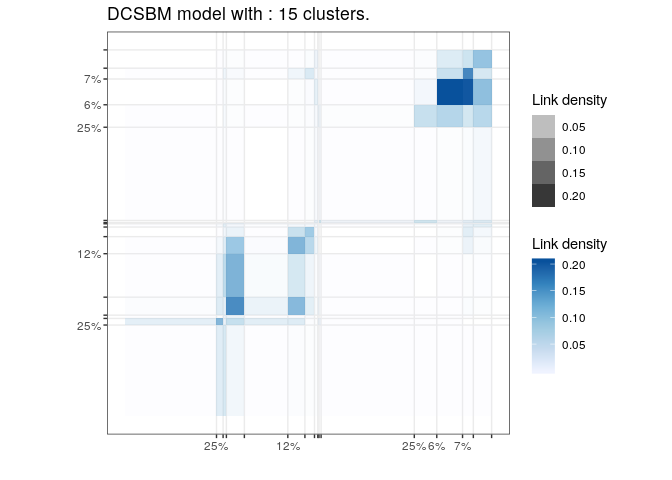
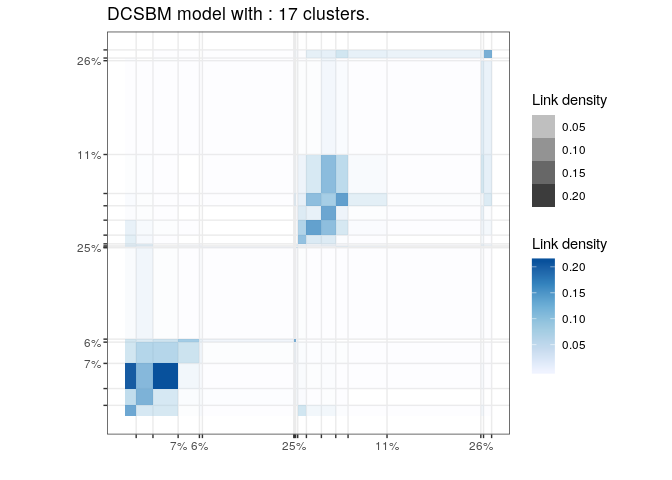
readme and vignette

diff --git a/README.md b/README.md
@@ -10,27 +10,24 @@
 Greed enable model based clustering of networks, counts data matrix and
 much more with different type of generative models. Model selection and
 clustering is performed in combination by optimizing the Integrated
-Classification Likelihood (which is equivalent to minimizing the
-description length).
+Classification Likelihood.
 
 Four generative models are availables currently :
 
-  - sbm : Stochastick Block Models (directed),
-  - dcsbm : degree corrected Block Models (directed),
-  - co\_dcsbm: co clustering with degree corrected Block Models
-    (directed)
+  - sbm : Stochastick Block Models (for directed and undirected graphs),
+  - dcsbm : Degree Corrected Stochastick Block Models (for directed and
+    undirected graphs),
+  - co\_dcsbm: Degree Corrected Latent Block Models,
   - mm: Mixture of Multinomials,
-  - mvmreg : Mixture of regression.
+  - gmm : Gaussian Mixture Model.
 
 With the Integrated Classification Likelihood the parameters of the
-models are integrated out. The optimization is performed by default
-thanks to a combination of greedy local search and a genetic algorithm,
-several optimization algorithms are available.
-
-Since the Integrated Classification Likelihood introduces a natural
-regularisation for complex models such strategie automaticaly find a
-“natural” value for the number of cluster, the user needs only to
-provide an initial guess.
+models are integrated out. Since the Integrated Classification
+Likelihood introduces a natural regularisation for complex models such
+strategie automaticaly find a “natural” value for the number of cluster,
+the user needs only to provide an initial guess. The optimization is
+performed by default thanks to a combination of greedy local search and
+a genetic algorithm, several optimization algorithms are available.
 
 Eventually, the whole path of solutions from K\* to 1 cluster is
 extracted. This enable a partial ordering of the clusters, and the
@@ -56,15 +53,9 @@ library(greed)
 data(Jazz)
 sol=greed(Jazz)
 #> ------- Fitting a dcsbm model ------
-#> ################# Generation  1: best solution with an ICL of -29429 and 16 clusters #################
-#> ################# Generation  2: best solution with an ICL of -29362 and 18 clusters #################
-#> ################# Generation  3: best solution with an ICL of -29360 and 18 clusters #################
-#> ################# Generation  4: best solution with an ICL of -29341 and 17 clusters #################
-#> ################# Generation  5: best solution with an ICL of -29331 and 18 clusters #################
-#> ################# Generation  6: best solution with an ICL of -29316 and 18 clusters #################
-#> ################# Generation  7: best solution with an ICL of -29316 and 18 clusters #################
-#> ################# Generation  8: best solution with an ICL of -29308 and 19 clusters #################
-#> ################# Generation  9: best solution with an ICL of -29308 and 19 clusters #################
+#> ################# Generation  1: best solution with an ICL of -29391 and 17 clusters #################
+#> ################# Generation  2: best solution with an ICL of -29308 and 19 clusters #################
+#> ################# Generation  3: best solution with an ICL of -29308 and 19 clusters #################
 ```
 
 The generative model will be chosen automatically to fit with the data
@@ -96,7 +87,7 @@ plot(cut(sol,5))
 <img src="man/figures/README-cut-1.png" width="60%" />
 
 For large datasets, it’s possible to use parallelism to speed-up the
-computation thanks to the fure package. You only need to specify the
+computation thanks to the future package. You only need to specify the
 type of parralelism.
 
 ``` r
@@ -105,11 +96,11 @@ plan(multisession)
 data("Blogs")
 sol=greed(Blogs$X)
 #> ------- Fitting a dcsbm model ------
-#> ################# Generation  1: best solution with an ICL of -84370 and 17 clusters #################
-#> ################# Generation  2: best solution with an ICL of -84141 and 15 clusters #################
-#> ################# Generation  3: best solution with an ICL of -84129 and 15 clusters #################
-#> ################# Generation  4: best solution with an ICL of -84113 and 15 clusters #################
-#> ################# Generation  5: best solution with an ICL of -84113 and 15 clusters #################
+#> ################# Generation  1: best solution with an ICL of -84490 and 16 clusters #################
+#> ################# Generation  2: best solution with an ICL of -84209 and 17 clusters #################
+#> ################# Generation  3: best solution with an ICL of -84152 and 17 clusters #################
+#> ################# Generation  4: best solution with an ICL of -84146 and 17 clusters #################
+#> ################# Generation  5: best solution with an ICL of -84146 and 17 clusters #################
 plot(sol)
 ```
 
